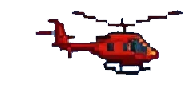
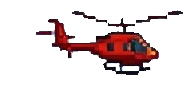
Add Helecopeter

diff --git a/src/sketch.js b/src/sketch.js
@@ -30,9 +30,11 @@ let spriteSheet;
 
 let spriteYOffset = 500;
 
+let heliImage;
+
 function preload() {
   backdrop = loadImage('images/Arrowhead full canvas.png');
-  helicopter = loadImage('images/heli.png');
+  heliImage = loadImage('images/heli.png');
   forestFireSound = loadSound('audio/Forest Fire Sound Effect (Copyright Free).mp3');
 
   fireAni = loadAnimation("images/fire.png", 
@@ -139,10 +141,17 @@ function setup() {
 
   sprite.collides(antagonistGroup, antagonistCollision);
 
-  helicopter = createSprite(3800, 100, 60, 30);
-  helicopter.shapeColor = color(0, 255, 0);
-  helicopter.speed = 0;
+  // Update helicopter creation
+  helicopter = new Sprite();
+  helicopter.img = heliImage; // Assign the image directly
+  helicopter.scale = 0.5; // Adjust this value to fit your game
+  helicopter.x = 3800;
+  helicopter.y = 100;
   helicopter.rotationLock = true;
+
+  // Ensure the sprite uses the image dimensions
+  helicopter.width = heliImage.width * helicopter.scale;
+  helicopter.height = heliImage.height * helicopter.scale;
 
   forestFireSound.setLoop(true);
   soundStarted = false;
@@ -327,5 +336,3 @@ function startSound() {
 function mousePressed() {
   startSound();
 }
-
-/* globals ADD, ALT, ARROW, AUDIO, AUTO, AXES, BACKSPACE, BASELINE, BEVEL, BEZIER, BLEND, BLUR, BOLD, BOLDITALIC, BOTTOM, BURN, CENTER, CHORD, CLAMP, CLOSE, CONTROL, CORNER, CORNERS, CROSS, CURVE, DARKEST, DEGREES, DEG_TO_RAD, DELETE, DIFFERENCE, DILATE, DODGE, DOWN_ARROW, ENTER, ERODE, ESCAPE, EXCLUSION, FALLBACK, FILL, GRAY, GRID, HALF_PI, HAND, HARD_LIGHT, HSB, HSL, IMAGE, IMMEDIATE, INVERT, ITALIC, LABEL, LANDSCAPE, LEFT, LEFT_ARROW, LIGHTEST, LINEAR, LINES, LINE_LOOP, LINE_STRIP, MIRROR, MITER, MOVE, MULTIPLY, NEAREST, NORMAL, OPAQUE, OPEN, OPTION, OVERLAY, P2D, PI, PIE, POINTS, PORTRAIT, POSTERIZE, PROJECT, QUADRATIC, QUADS, QUAD_STRIP, QUARTER_PI, RADIANS, RADIUS, RAD_TO_DEG, REMOVE, REPEAT, REPLACE, RETURN, RGB, RIGHT, RIGHT_ARROW, ROUND, SCREEN, SHIFT, SOFT_LIGHT, SQUARE, STROKE, SUBTRACT, TAB, TAU, TESS, TEXT, TEXTURE, THRESHOLD, TOP, TRIANGLES, TRIANGLE_FAN, TRIANGLE_STRIP, TWO_PI, UP_ARROW, VIDEO, WAIT, WEBGL, accelerationX, accelerationY, accelerationZ, deltaTime, deviceOrientation, displayHeight, displayWidth, focused, frameCount, height, isKeyPressed, key, keyCode, keyIsPressed, mouseButton, mouseIsPressed, mouseX, mouseY, movedX, movedY, pAccelerationX, pAccelerationY, pAccelerationZ, pRotateDirectionX, pRotateDirectionY, pRotateDirectionZ, pRotationX, pRotationY, pRotationZ, pixels, pmouseX, pmouseY, pwinMouseX, pwinMouseY, rotationX, rotationY, rotationZ, touches, turnAxis, width, winMouseX, winMouseY, windowHeight, windowWidth, abs, acos, alpha, ambientLight, ambientMaterial, angleMode, append, applyMatrix, arc, arrayCopy, asin, atan, atan2, background, beginContour, beginShape, bezier, bezierDetail, bezierPoint, bezierTangent, bezierVertex, blend, blendMode, blue, boolean, box, brightness, byte, camera, ceil, char, circle, clear, clearStorage, color, colorMode, concat, cone, constrain, copy, cos, createA, createAudio, createButton, createCamera, createCanvas, createCapture, createCheckbox, createColorPicker, createDiv, createElement, createFileInput, createGraphics, createImage, createImg, createInput, createNumberDict, createP, createRadio, createSelect, createShader, createSlider, createSpan, createStringDict, createVector, createVideo, createWriter, cursor, curve, curveDetail, curvePoint, curveTangent, curveTightness, curveVertex, cylinder, day, debugMode, degrees, describe, describeElement, directionalLight, displayDensity, dist, downloadFile, ellipse, ellipseMode, ellipsoid, emissiveMaterial, endContour, endShape, erase, exitPointerLock, exp, fill, filter, float, floor, fract, frameRate, frustum, fullscreen, get, getFrameRate, getItem, getURL, getURLParams, getURLPath, green, gridOutput, hex, hour, httpDo, httpGet, httpPost, hue, image, imageMode, int, isLooping, join, keyIsDown, lerp, lerpColor, lightFalloff, lightness, lights, line, loadBytes, loadFont, loadImage, loadJSON, loadModel, loadPixels, loadShader, loadStrings, loadTable, loadXML, log, loop, mag, map, match, matchAll, max, millis, min, minute, model, month, nf, nfc, nfp, nfs, noCanvas, noCursor, noDebugMode, noErase, noFill, noLights, noLoop, noSmooth, noStroke, noTint, noise, noiseDetail, noiseSeed, norm, normalMaterial, orbitControl, ortho, perspective, pixelDensity, plane, point, pointLight, pop, popMatrix, popStyle, pow, print, push, pushMatrix, pushStyle, quad, quadraticVertex, radians, random, randomGaussian, randomSeed, rect, rectMode, red, redraw, registerPromisePreload, removeElements, removeItem, requestPointerLock, resetMatrix, resetShader, resizeCanvas, reverse, rotate, rotateX, rotateY, rotateZ, round, saturation, save, saveCanvas, saveFrames, saveGif, saveJSON, saveJSONArray, saveJSONObject, saveStrings, saveTable, scale, second, select, selectAll, set, setAttributes, setCamera, setFrameRate, setMoveThreshold, setShakeThreshold, shader, shearX, shearY, shininess, shorten, shuffle, sin, smooth, sort, specularColor, specularMaterial, sphere, splice, split, splitTokens, spotLight, sq, sqrt, square, storeItem, str, stroke, strokeCap, strokeJoin, strokeWeight, subset, tan, text, textAlign, textAscent, textDescent, textFont, textLeading, textOutput, textSize, textStyle, textWidth, texture, textureMode, textureWrap, tint, torus, translate, triangle, trim, unchar, unhex, updatePixels, vertex, writeFile, year */
